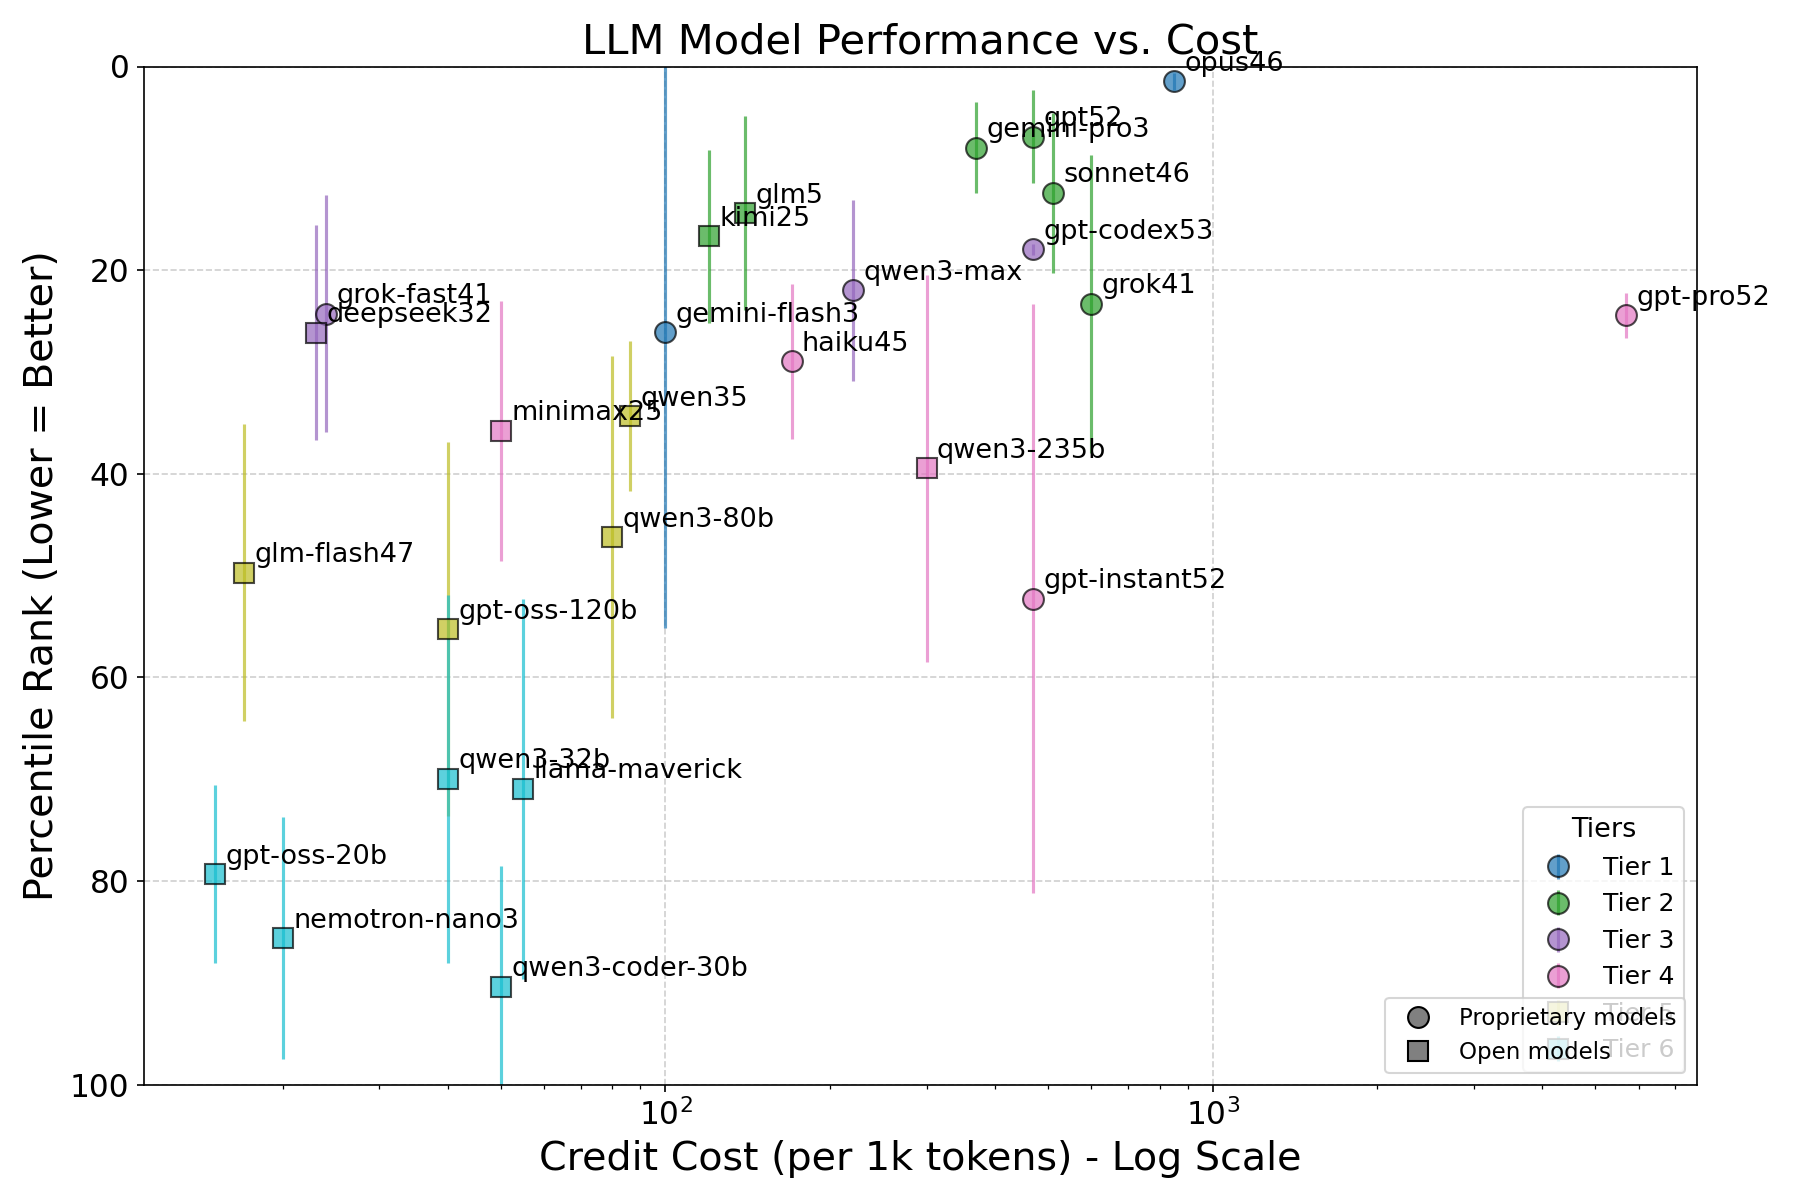
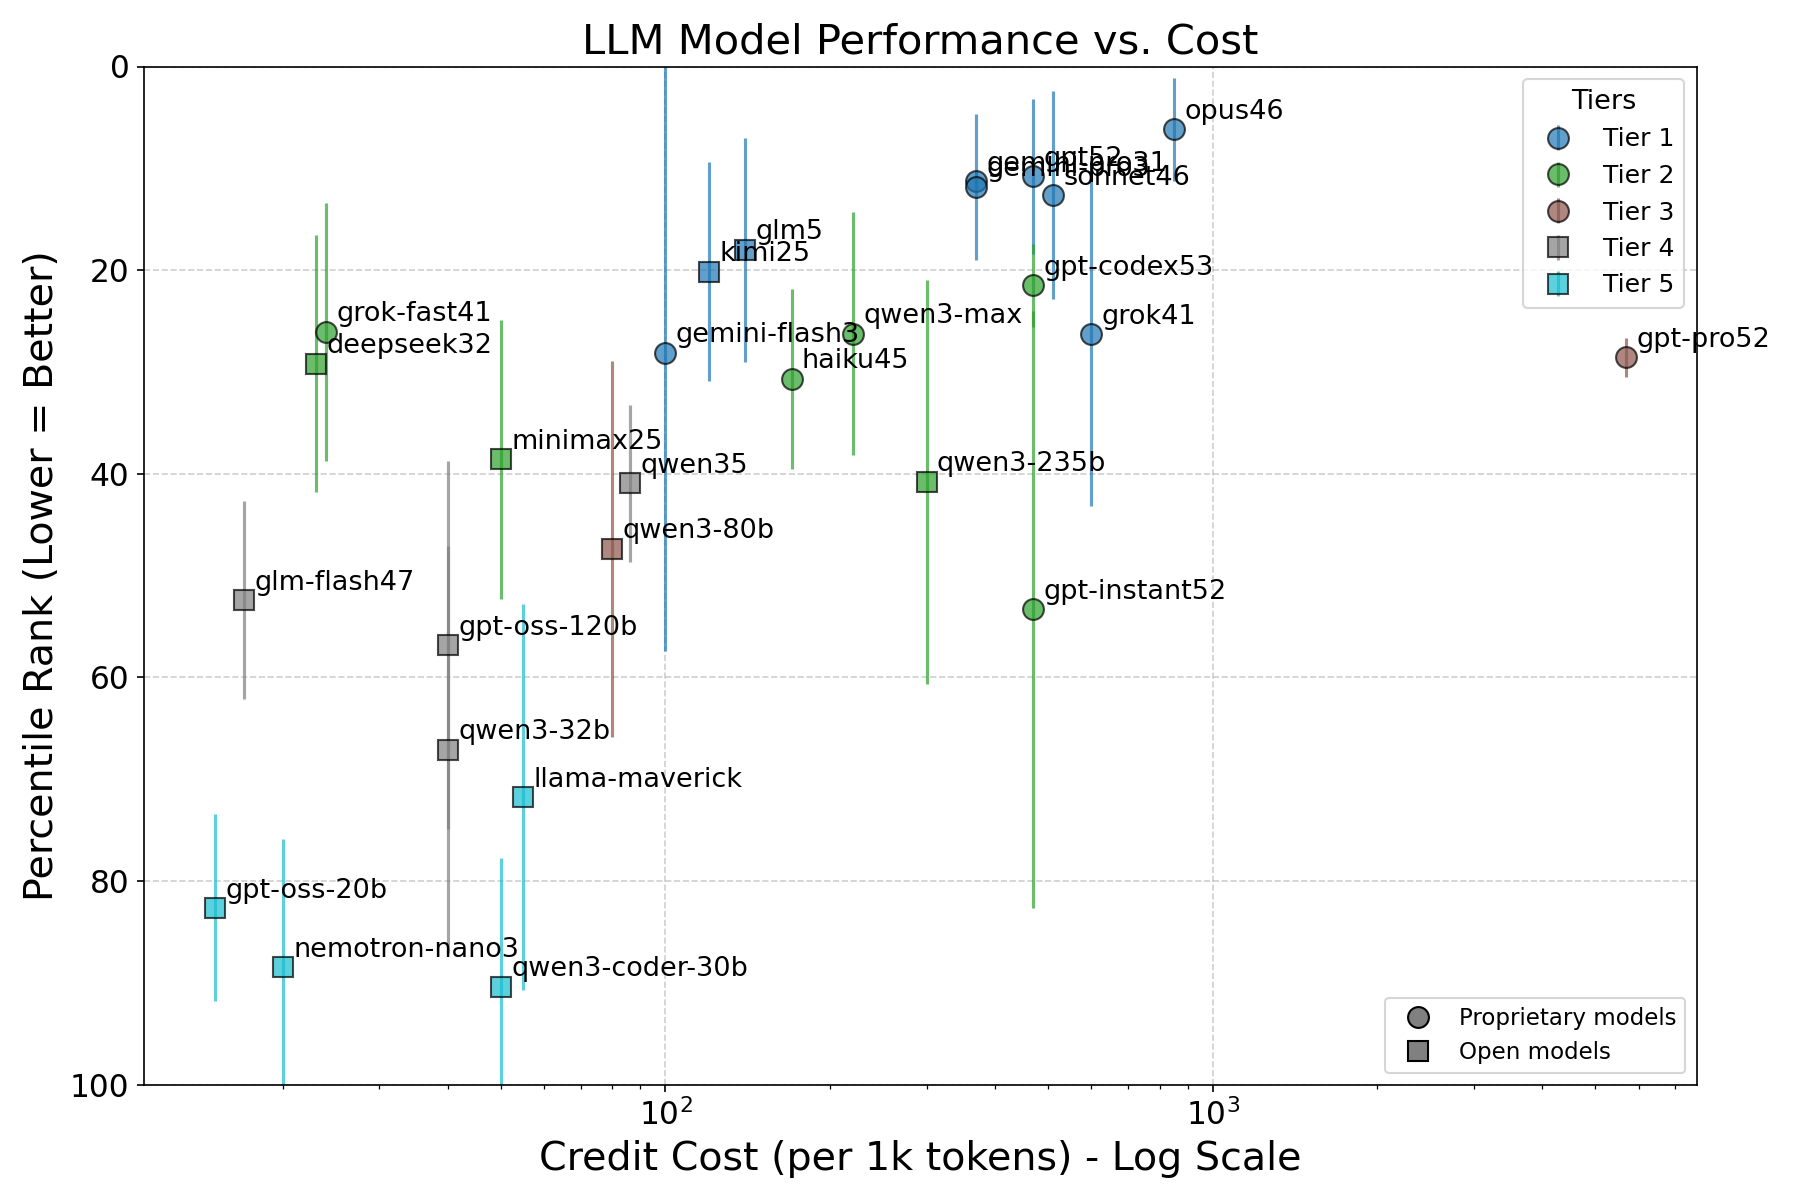
updated plots with gemini31

diff --git a/_pages/llm-ranking.md b/_pages/llm-ranking.md
@@ -11,6 +11,8 @@ images:
 
 I benchmarked dozens of LLMs across coding and general reasoning tasks, then mapped their performance against API pricing. This page breaks down the rankings and highlight the best value picks in each category.
 
+Updated on Feb. 19 2026.
+
 ## Introduction
 
 I conducted a statistical analysis of LLM rankings. My specific goals were:
